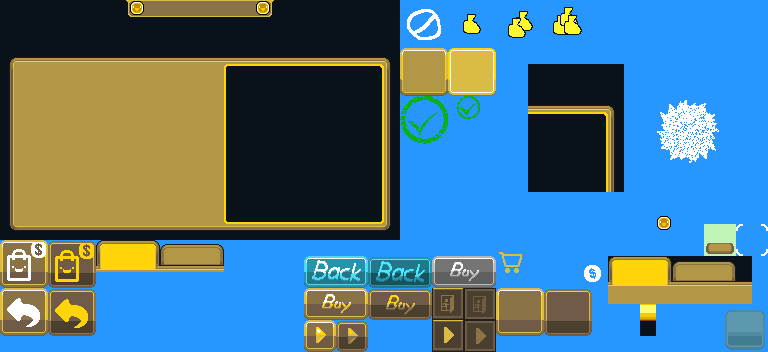
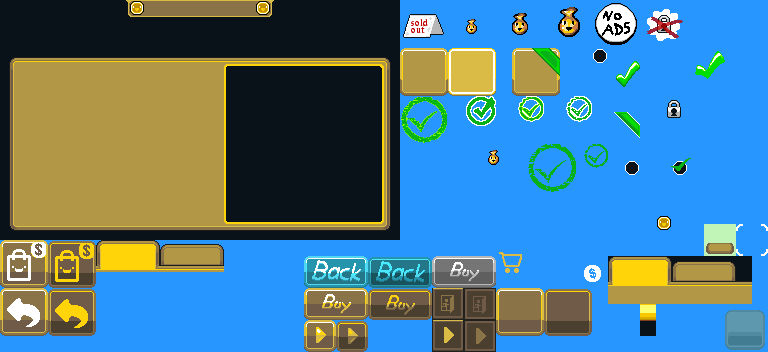
purchase prices, etc

diff --git a/happydash_ANDROID.gmx/index.html b/happydash_ANDROID.gmx/index.html
@@ -1,0 +1,3 @@
+<html>
+Please visit the <a href="https://twitter.com/shinypixelgames">shinypixelgames twitter page</a> to stay updated.
+</html>
